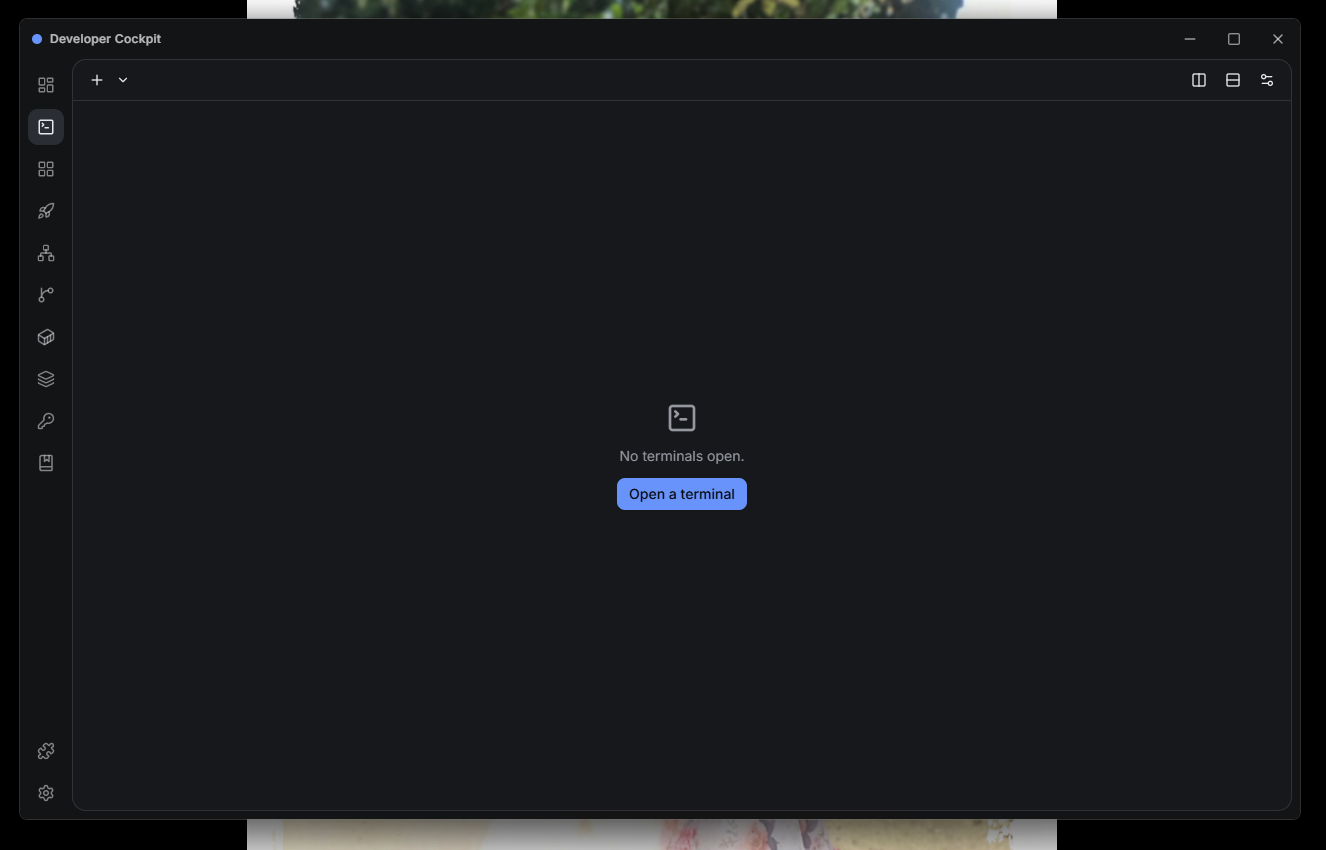
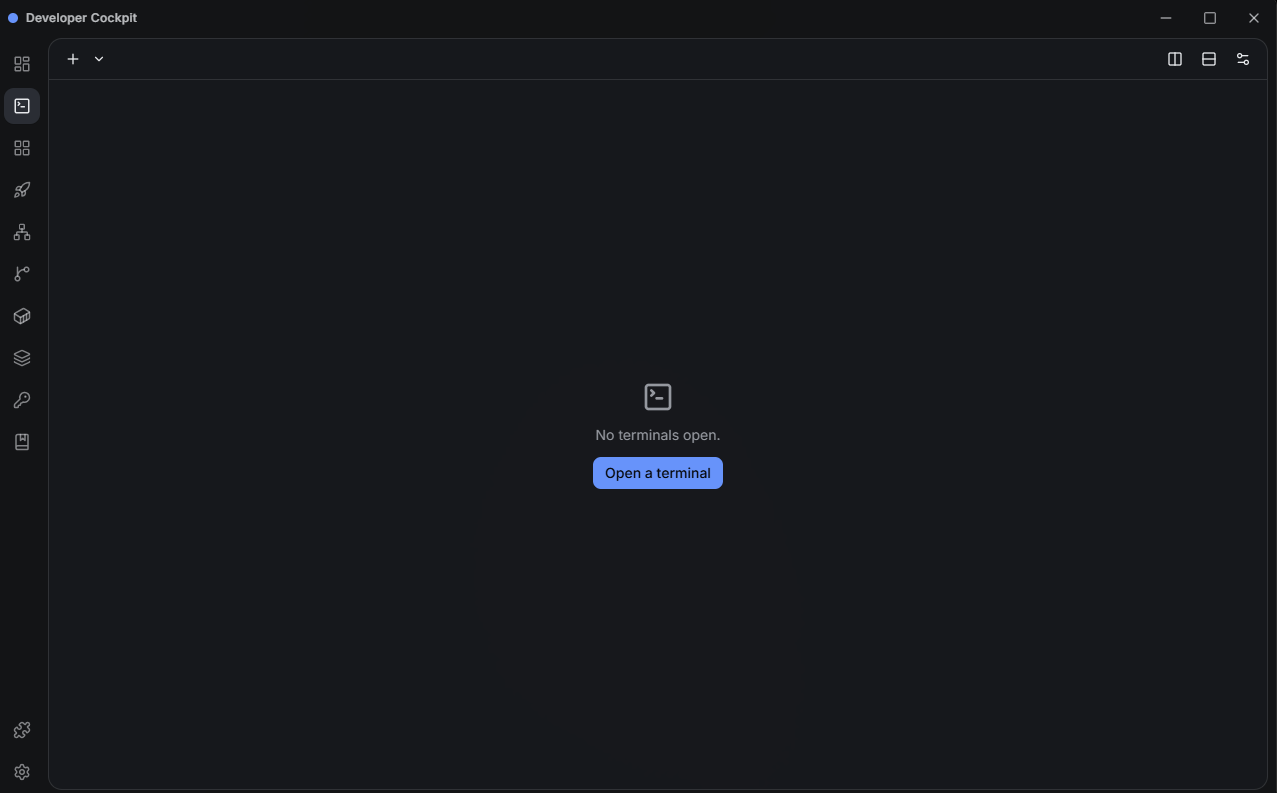
feat: add interactive product showcase, hero section, and supporting feature components with assets

diff --git a/src/components/screenshots/Showcase.tsx b/src/components/screenshots/Showcase.tsx
@@ -9,48 +9,56 @@ const features = [
     description: "Multi-tab, split-pane ConPTY terminal with live font zooming and curated themes.",
     icon: Terminal,
     label: "Core",
+    image: "/images/Terminal.png",
   },
   {
     name: "Git Dashboard",
     description: "Visual SVG commit history graphs, stash management, and merge assistants.",
     icon: GitBranch,
     label: "Pro",
+    image: "/images/Git.png",
   },
   {
     name: "Docker Workspace",
     description: "Compose v2 project grouping, dependency graphs, and streaming logs.",
     icon: Box,
     label: "Pro",
+    image: "/images/Docker.png",
   },
   {
     name: "Project Launcher",
     description: "Automated multi-step pipelines to orchestrate IDEs, builds, and servers.",
     icon: Layout,
     label: "Pro",
+    image: "/images/Project.png",
   },
   {
     name: "Port Manager",
     description: "Real-time TCP socket monitor with Win32 process memory introspection.",
     icon: Activity,
     label: "Pro",
+    image: "/images/Ports.png",
   },
   {
     name: "Command Snippets",
     description: "Categorized snippet repository with single-click execution.",
     icon: Code2,
     label: "Core",
+    image: "/images/Snippets.png",
   },
   {
     name: "Plugin System",
     description: "Sandboxed iframe/worker runtime supporting custom modules.",
     icon: Plug,
     label: "Pro",
+    image: "/images/Pluggins.png",
   },
   {
     name: "Version Dashboard",
     description: "Probes and verifies installation status for 12 developer toolchains.",
     icon: ShieldCheck,
     label: "Core",
+    image: "/images/Version.png",
   }
 ]
 
@@ -73,21 +81,27 @@ export function Showcase() {
         <div className="mb-24">
           <div className="rounded-xl overflow-hidden border border-zinc-800 shadow-[0_24px_80px_rgba(0,0,0,0.8)] bg-zinc-900">
             {/* Window Chrome */}
-            <div className="h-10 border-b border-zinc-800 bg-zinc-900/80 flex items-center px-4">
+            <div className="h-10 border-b border-zinc-800 bg-zinc-900/80 flex items-center justify-between px-4">
               <div className="flex space-x-2">
                 <div className="w-3 h-3 rounded-full bg-zinc-700"></div>
                 <div className="w-3 h-3 rounded-full bg-zinc-700"></div>
                 <div className="w-3 h-3 rounded-full bg-zinc-700"></div>
               </div>
+              <span className="text-xs font-mono text-zinc-400">
+                {features[activeFeature].name}
+              </span>
+              <div className="w-12"></div>
             </div>
             {/* The Actual Application Screenshot */}
             <div className="relative aspect-[16/10] md:aspect-[16/9] w-full bg-zinc-950 overflow-hidden">
                <Image 
-                 src="/developer-cockpit.png" 
-                 alt="Developer Cockpit Interface" 
+                 key={features[activeFeature].image}
+                 src={features[activeFeature].image} 
+                 alt={features[activeFeature].name} 
                  fill
                  sizes="(max-width: 1200px) 100vw, 1200px"
-                 className="object-cover object-top"
+                 priority
+                 className="object-contain object-center bg-zinc-950 animate-fade-in-up"
                />
             </div>
           </div>
@@ -97,14 +111,24 @@ export function Showcase() {
         <div className="grid grid-cols-1 md:grid-cols-2 lg:grid-cols-4 gap-4">
           {features.map((feature, index) => {
             const Icon = feature.icon
+            const isActive = index === activeFeature
             return (
               <div 
                 key={feature.name}
-                className="group p-6 rounded-xl border border-zinc-800 bg-zinc-900/30 hover:bg-zinc-800/50 hover:border-zinc-700 transition-all duration-200 cursor-pointer flex flex-col h-full"
+                className={`group p-6 rounded-xl border transition-all duration-200 cursor-pointer flex flex-col h-full ${
+                  isActive 
+                    ? 'border-blue-500/50 bg-zinc-900/80 shadow-[0_0_20px_rgba(59,130,246,0.1)]' 
+                    : 'border-zinc-800 bg-zinc-900/30 hover:bg-zinc-800/50 hover:border-zinc-700'
+                }`}
+                onClick={() => setActiveFeature(index)}
                 onMouseEnter={() => setActiveFeature(index)}
               >
                 <div className="flex justify-between items-start mb-4">
-                  <div className="p-2 rounded-lg bg-zinc-800 text-zinc-300 group-hover:text-blue-400 group-hover:bg-blue-500/10 transition-colors">
+                  <div className={`p-2 rounded-lg transition-colors ${
+                    isActive 
+                      ? 'bg-blue-500/20 text-blue-400' 
+                      : 'bg-zinc-800 text-zinc-300 group-hover:text-blue-400 group-hover:bg-blue-500/10'
+                  }`}>
                     <Icon className="w-5 h-5" />
                   </div>
                   <span className={`text-[11px] font-mono uppercase tracking-wider px-2 py-1 rounded-full border ${feature.label === 'Pro' ? 'border-emerald-500/30 text-emerald-400 bg-emerald-500/10' : 'border-zinc-700 text-zinc-400 bg-zinc-800'}`}>

diff --git a/src/components/features/InteractiveFeatures.tsx b/src/components/features/InteractiveFeatures.tsx
@@ -11,7 +11,7 @@ type Feature = {
   benefits: string[];
   techCapability: string;
   status: "Free" | "Pro" | "Core & Pro";
-  imageFocus: string; // CSS object-position to fake different crops of the main screenshot
+  image: string;
 };
 
 type FeatureGroup = {
@@ -34,7 +34,7 @@ const featureGroups: FeatureGroup[] = [
         benefits: ["Unlimited tabs", "Recursive split panes (horizontal/vertical)", "Custom themes and live font zooming", "In-buffer search"],
         techCapability: "ConPTY / xterm.js",
         status: "Free",
-        imageFocus: "object-[10%_10%]"
+        image: "/images/Terminal.png"
       }
     ]
   },
@@ -50,7 +50,7 @@ const featureGroups: FeatureGroup[] = [
         benefits: ["Instant layout restore", "Preserves exact working directories", "Saves cognitive overhead across reboots"],
         techCapability: "SQLite Session Persistence",
         status: "Pro",
-        imageFocus: "object-[0%_50%]"
+        image: "/images/Workspace.png"
       },
       {
         id: "project-launcher",
@@ -59,7 +59,7 @@ const featureGroups: FeatureGroup[] = [
         benefits: ["Single-click startup", "Framework auto-detection", "Simultaneous process launching"],
         techCapability: "Win32 Process Creation",
         status: "Pro",
-        imageFocus: "object-[0%_100%]"
+        image: "/images/Project.png"
       }
     ]
   },
@@ -75,7 +75,7 @@ const featureGroups: FeatureGroup[] = [
         benefits: ["Compose v2 service grouping", "Visual SVG service dependency graph", "WSL2 Docker Doctor health checks", "Container terminal shell launcher"],
         techCapability: "Tauri Channels / Docker CLI",
         status: "Pro",
-        imageFocus: "object-[100%_10%]"
+        image: "/images/Docker.png"
       },
       {
         id: "port-manager",
@@ -84,7 +84,7 @@ const featureGroups: FeatureGroup[] = [
         benefits: ["Extract command lines and working directories", "Recursive process tree killing", "In-place process restart"],
         techCapability: "Win32 APIs / Netstat",
         status: "Pro",
-        imageFocus: "object-[100%_50%]"
+        image: "/images/Ports.png"
       },
       {
         id: "ssh",
@@ -93,7 +93,7 @@ const featureGroups: FeatureGroup[] = [
         benefits: ["Zero-Password storage policy", "Credentials never stored in DB/logs", "Instant 1-click connect"],
         techCapability: "Ed25519 / DPAPI",
         status: "Pro",
-        imageFocus: "object-[100%_100%]"
+        image: "/images/SSH.png"
       }
     ]
   },
@@ -109,7 +109,7 @@ const featureGroups: FeatureGroup[] = [
         benefits: ["Visual SVG commit history graph", "Ahead/behind upstream counts", "Stash and Tag managers", "Cherry-pick and merge conflict assistants"],
         techCapability: "Native Git CLI Integration",
         status: "Core & Pro",
-        imageFocus: "object-[50%_50%]"
+        image: "/images/Git.png"
       }
     ]
   },
@@ -125,7 +125,7 @@ const featureGroups: FeatureGroup[] = [
         benefits: ["Single-click execution into active terminal shells", "Fast categorization", "Local storage"],
         techCapability: "SQLite",
         status: "Free",
-        imageFocus: "object-[20%_80%]"
+        image: "/images/Snippets.png"
       },
       {
         id: "version-dashboard",
@@ -134,7 +134,7 @@ const featureGroups: FeatureGroup[] = [
         benefits: ["Auto-detects 12 developer toolchains", "Verifies exact version strings", "Resolves filesystem paths"],
         techCapability: "Filesystem Probing",
         status: "Free",
-        imageFocus: "object-[80%_80%]"
+        image: "/images/Version.png"
       }
     ]
   },
@@ -150,7 +150,7 @@ const featureGroups: FeatureGroup[] = [
         benefits: ["Sandboxed iframe/worker runtime", "Custom sidebar modules", "Overview dashboard widgets", "Scoped SQLite key-value persistence"],
         techCapability: "TypeScript SDK / iframe RPC",
         status: "Pro",
-        imageFocus: "object-[50%_0%]"
+        image: "/images/Pluggins.png"
       }
     ]
   }
@@ -220,15 +220,15 @@ export function InteractiveFeatures() {
               className="rounded-xl border border-zinc-800 bg-zinc-900/50 overflow-hidden shadow-2xl animate-fade-in-up"
             >
               {/* Feature Image Area */}
-              <div className="w-full h-64 bg-zinc-950 border-b border-zinc-800 relative overflow-hidden">
+              <div className="w-full aspect-[16/10] bg-zinc-950 border-b border-zinc-800 relative overflow-hidden flex items-center justify-center">
                 <Image 
-                  src="/developer-cockpit.png" 
+                  key={activeFeature.image}
+                  src={activeFeature.image} 
                   alt={activeFeature.name} 
                   fill
                   sizes="(max-width: 1200px) 100vw, 800px"
-                  className={`object-cover transition-all duration-700 ease-in-out ${activeFeature.imageFocus}`}
+                  className="object-contain object-center transition-all duration-300"
                 />
-                <div className="absolute inset-0 bg-gradient-to-t from-zinc-950 via-zinc-950/20 to-transparent"></div>
               </div>
 
               {/* Feature Details */}

diff --git a/src/components/hero/Hero.tsx b/src/components/hero/Hero.tsx
@@ -49,10 +49,10 @@ export function Hero() {
         </div>
 
         {/* Product Visual */}
-        <div className="mx-auto max-w-5xl rounded-lg border border-zinc-800 bg-zinc-900/50 p-2 shadow-2xl backdrop-blur-sm animate-fade-in-up animation-delay-400">
-          <div className="rounded-md overflow-hidden border border-zinc-800 relative bg-zinc-950 aspect-[16/9] flex items-center justify-center">
+        {/* <div className="mx-auto max-w-5xl rounded-lg border border-zinc-800 bg-zinc-900/50 p-2 shadow-2xl backdrop-blur-sm animate-fade-in-up animation-delay-400">
+          <div className="rounded-md overflow-hidden border border-zinc-800 relative bg-zinc-950 aspect-[16/9] flex items-center justify-center"> */}
             {/* Minimal window controls */}
-            <div className="absolute top-0 left-0 w-full h-10 border-b border-zinc-800 bg-zinc-900/80 flex items-center px-4">
+            {/* <div className="absolute top-0 left-0 w-full h-10 border-b border-zinc-800 bg-zinc-900/80 flex items-center px-4">
               <div className="flex space-x-2">
                 <div className="w-3 h-3 rounded-full bg-zinc-700"></div>
                 <div className="w-3 h-3 rounded-full bg-zinc-700"></div>
@@ -61,10 +61,10 @@ export function Hero() {
               <div className="mx-auto text-xs font-mono text-zinc-500 flex items-center">
                 <Code2 className="w-3 h-3 mr-2" /> Developer Cockpit
               </div>
-            </div>
+            </div> */}
             
             {/* Actual screenshot */}
-            <div className="relative w-full aspect-[16/10] overflow-hidden bg-zinc-950">
+            {/* <div className="relative w-full aspect-[16/10] overflow-hidden bg-zinc-950">
               <Image 
                  src="/developer-cockpit.png" 
                  alt="Developer Cockpit Interface" 
@@ -73,9 +73,9 @@ export function Hero() {
                  priority
                  className="object-cover object-left-top"
                />
-            </div>
-          </div>
-        </div>
+            </div> */}
+          {/* </div>
+        </div> */}
       </div>
     </section>
   )

diff --git a/src/components/layout/Header.tsx b/src/components/layout/Header.tsx
@@ -42,11 +42,11 @@ export function Header() {
         
         <div className="hidden md:flex items-center space-x-4">
           <Link href="#partner">
-            <Button variant="ghost" size="sm" className="hidden lg:inline-flex text-zinc-400 hover:text-zinc-100">
+            <Button variant="primary" size="sm">
               Partner With Us
             </Button>
           </Link>
-          <Button variant="primary" size="sm">Download Free</Button>
+          {/* <Button variant="primary" size="sm">Download Free</Button> */}
         </div>
 
         {/* Mobile menu button */}
@@ -76,9 +76,9 @@ export function Header() {
             ))}
             <div className="pt-6 border-t border-zinc-800 flex flex-col space-y-4">
               <Link href="#partner" onClick={() => setIsMobileMenuOpen(false)}>
-                <Button variant="outline" className="w-full justify-center">Partner With Us</Button>
+                <Button variant="primary" className="w-full justify-center">Partner With Us</Button>
               </Link>
-              <Button variant="primary" className="w-full justify-center">Download Free</Button>
+              {/* <Button variant="primary" className="w-full justify-center">Download Free</Button> */}
             </div>
           </nav>
         </div>

diff --git a/src/app/layout.tsx b/src/app/layout.tsx
@@ -69,14 +69,17 @@ export default function RootLayout({
   children: React.ReactNode;
 }>) {
   return (
-    <html lang="en" className="scroll-smooth">
+    <html lang="en" className="scroll-smooth" suppressHydrationWarning>
       <head>
         <script
           type="application/ld+json"
           dangerouslySetInnerHTML={{ __html: JSON.stringify(jsonLd) }}
         />
       </head>
-      <body className={`${inter.variable} ${jetbrainsMono.variable} font-sans antialiased bg-background text-foreground min-h-screen flex flex-col selection:bg-blue-500/30 selection:text-blue-200`}>
+      <body 
+        suppressHydrationWarning
+        className={`${inter.variable} ${jetbrainsMono.variable} font-sans antialiased bg-background text-foreground min-h-screen flex flex-col selection:bg-blue-500/30 selection:text-blue-200`}
+      >
         <Header />
         <main className="flex-1">
           {children}

diff --git a/src/components/demo/DemoSection.tsx b/src/components/demo/DemoSection.tsx
@@ -73,12 +73,12 @@ export function DemoSection() {
                 Download the Free edition today and start experiencing zero-latency development.
               </p>
               <div className="flex flex-col sm:flex-row gap-4 w-full md:w-auto">
-                <Button size="lg" className="w-full sm:w-auto">
+                {/* <Button size="lg" className="w-full sm:w-auto">
                   <Download className="mr-2 h-4 w-4" />
                   Download for Windows
-                </Button>
+                </Button> */}
                 <Link href="#editions" className="w-full sm:w-auto">
-                  <Button variant="outline" size="lg" className="w-full">
+                  <Button variant="primary" size="lg" className="w-full">
                     Compare Editions
                   </Button>
                 </Link>

diff --git a/src/components/partnership/Partnership.tsx b/src/components/partnership/Partnership.tsx
@@ -90,7 +90,7 @@ export function Partnership() {
             <Link href="mailto:ruhulamintuhin715@gmail.com">
               <Button size="lg" className="w-full sm:w-auto bg-blue-600 hover:bg-blue-700 text-white border-0 group">
                 <Mail className="mr-2 h-4 w-4" />
-                Partner With Developer Cockpit
+                ruhulamintuhin715@gmail.com
               </Button>
             </Link>
             <Link href="https://github.com/ratuhin1122/developer-cockpit-public/tree/main/docs" target="_blank">

diff --git a/src/components/editions/Editions.tsx b/src/components/editions/Editions.tsx
@@ -65,11 +65,11 @@ export function Editions() {
               </ul>
             </div>
 
-            <div className="mt-12 pt-8 border-t border-zinc-800">
+            {/* <div className="mt-12 pt-8 border-t border-zinc-800">
               <Button variant="secondary" className="w-full">
                 Download Free Edition
               </Button>
-            </div>
+            </div> */}
           </div>
 
           {/* Pro Edition */}
